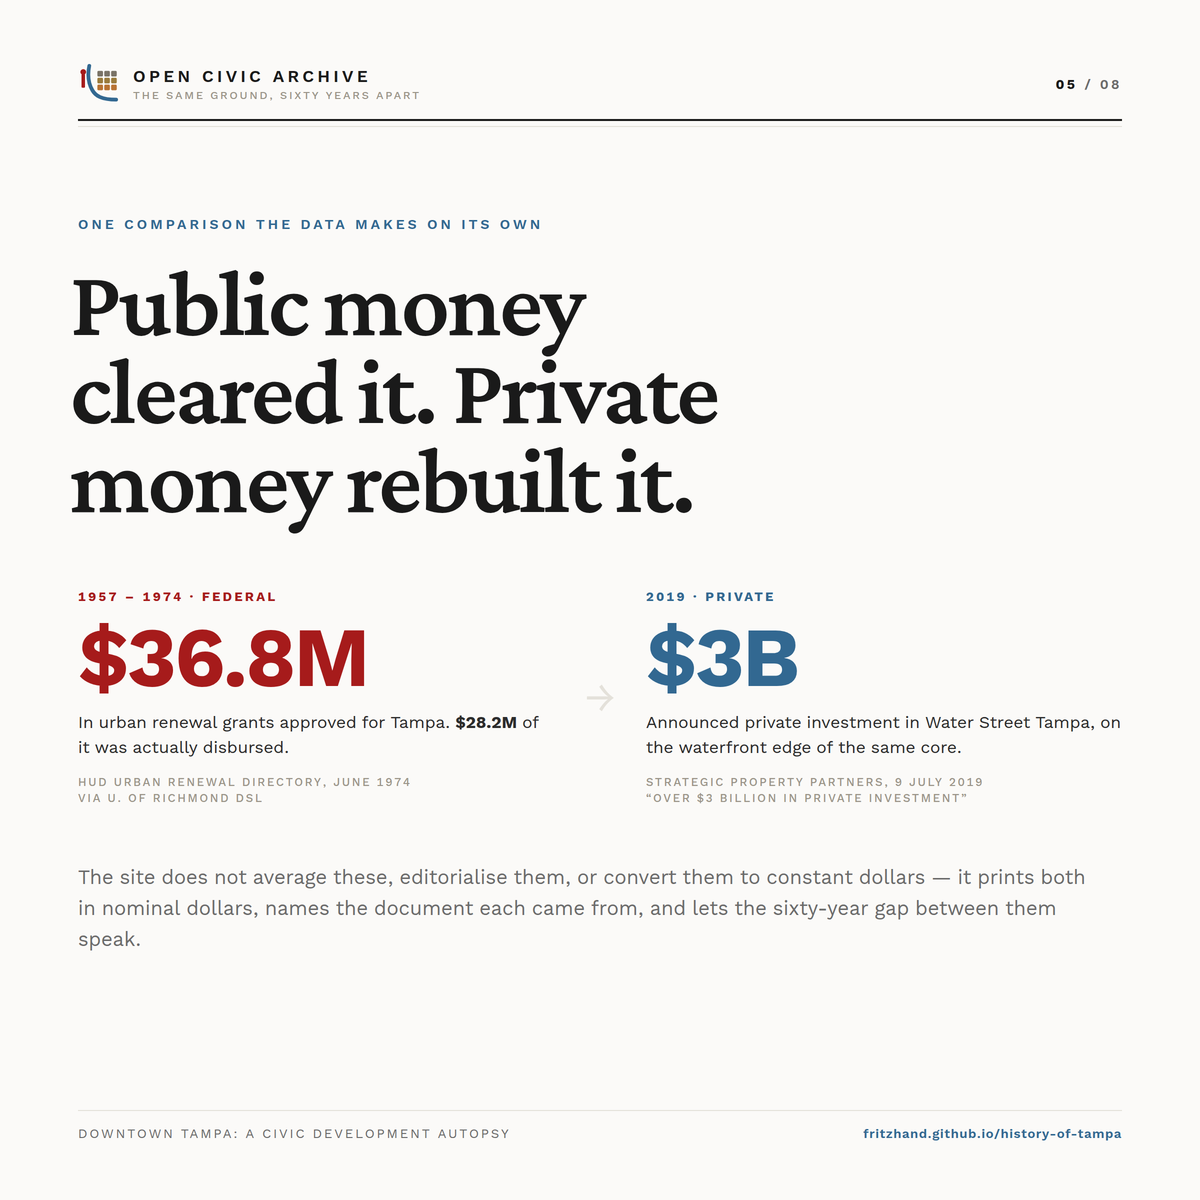
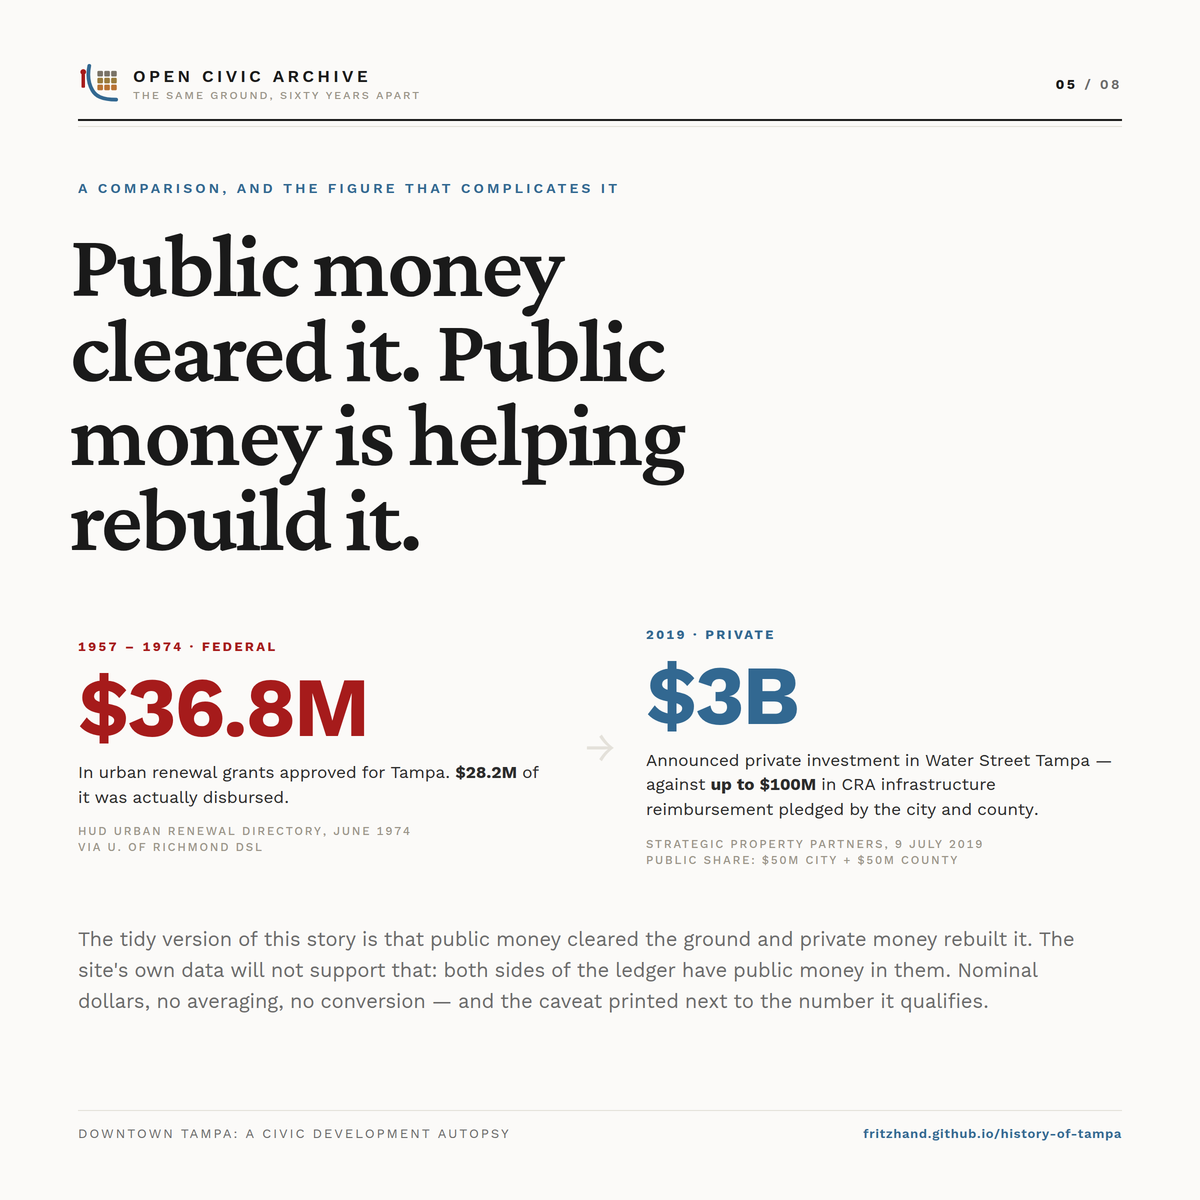
fix: card 05 printed a tidy binary the data will not support
The headline read "Public money cleared it. Private money rebuilt it." The
site's own districtImpact row for Water Street records the opposite of that
clean split: the city and county pledged up to $100M ($50M each) in CRA
infrastructure reimbursement against the $3B of private investment, and the
row carries it as the cost line precisely so the gain is not printed alone.

So the card asserted, on a graphic no reader can check, exactly the kind of
uncomplicated claim this project exists to refuse. The headline now says both
sides of the ledger have public money in them, the $100M sits in the column it
qualifies rather than in a footnote, and the standfirst names the tidy version
before rejecting it.

Claude-Session: https://claude.ai/code/session_01UuPjjoZoEX3FwyRdMN5jux

Changed region(s): [[0.0617, 0.4933, 0.925, 0.8633], [0.0617, 0.1542, 0.6167, 0.4625]]

diff --git a/tools/linkedin-cards.html b/tools/linkedin-cards.html
@@ -490,8 +490,8 @@
   <div class="spacer-top"></div>
 
   <div>
-    <div class="kicker t4">One comparison the data makes on its own</div>
-    <h1 style="margin-top: 28px; margin-left: -8px; font-size: 96px;">Public money<br />cleared it. Private<br />money rebuilt it.</h1>
+    <div class="kicker t4">A comparison, and the figure that complicates it</div>
+    <h1 style="margin-top: 28px; margin-left: -8px; font-size: 92px;">Public money<br />cleared it. Public<br />money is helping<br />rebuild it.</h1>
   </div>
 
   <div class="ledger" style="margin-top: 66px;">
@@ -505,15 +505,16 @@
     <div class="led-side led-now">
       <div class="led-era t2">2019 &middot; Private</div>
       <div class="led-amt">$3B</div>
-      <div class="led-what">Announced private investment in Water Street Tampa, on the waterfront edge of the same core.</div>
-      <div class="led-src t1">Strategic Property Partners, 9 July 2019<br />&ldquo;over $3 billion in private investment&rdquo;</div>
+      <div class="led-what">Announced private investment in Water Street Tampa &mdash; against <b>up to $100M</b> in CRA infrastructure reimbursement pledged by the city and county.</div>
+      <div class="led-src t1">Strategic Property Partners, 9 July 2019<br />Public share: $50M city + $50M county</div>
     </div>
   </div>
 
   <p class="body" style="margin-top: 56px; max-width: 1010px; font-size: 20px; color: var(--muted);">
-    The site does not average these, editorialise them, or convert them to constant dollars &mdash;
-    it prints both in nominal dollars, names the document each came from, and lets the
-    sixty-year gap between them speak.
+    The tidy version of this story is that public money cleared the ground and private money
+    rebuilt it. The site's own data will not support that: both sides of the ledger have public
+    money in them. Nominal dollars, no averaging, no conversion &mdash; and the caveat printed
+    next to the number it qualifies.
   </p>
 
   <div class="spacer"></div>

diff --git a/assets/linkedin/CAPTION.md b/assets/linkedin/CAPTION.md
@@ -105,7 +105,7 @@ hidden.
 | 02 | `02-premise.png` | Why build it: a plaque versus 257 footnotes |
 | 03 | `03-receipts.png` | The citation standard, 168 / 42 / 47 |
 | 04 | `04-clearance.png` | What urban renewal removed |
-| 05 | `05-ledger.png` | $36.8M federal, 1957-74, against $3B private, 2019 |
+| 05 | `05-ledger.png` | $36.8M federal against $3B private, and the $100M of public money in the rebuild |
 | 06 | `06-inside.png` | What is in the repo, and the weekend's commit count |
 | 07 | `07-credit.png` | Sahasrik Ragani and the original project |
 | 08 | `08-fork.png` | Fork it, do your city, four steps |
